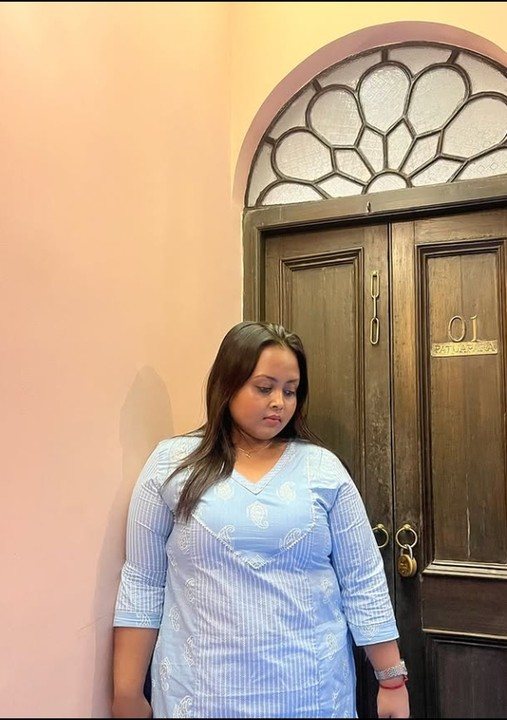
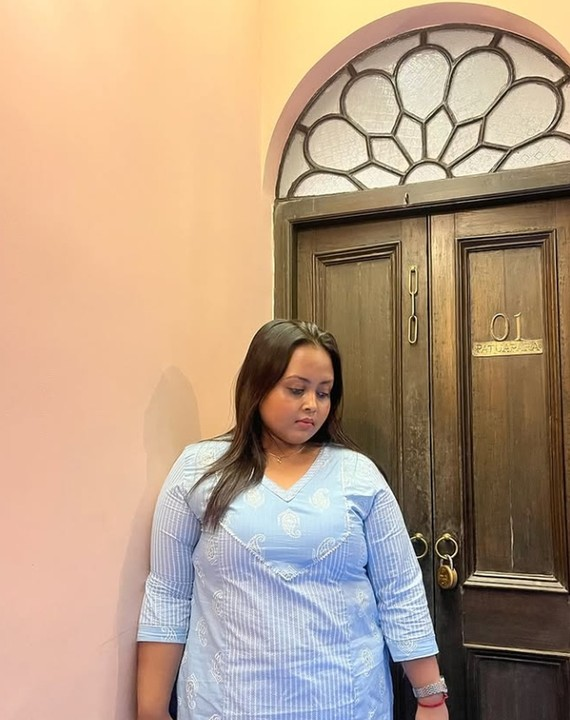
Collections

diff --git a/templates/store/index.html b/templates/store/index.html
@@ -28,17 +28,16 @@
             <div class="swiper-slide">
               <div class="banner-item image-zoom-effect">
                 <div class="image-holder">
-                  <a href="{% url 'store:product_detail' 'hakoba-c6-neck' %}">
-                    <img src="{% static 'assets/images/4.jpg' %}" alt="product" class="img-fluid">
+                  <a href="{% url 'store:product_detail' 'blue-v-neck-kurti' %}">
+                    <img src="{% static 'assets/images/24.jpg' %}" alt="product" class="img-fluid">
                   </a>
                 </div>
-                
               </div>
             </div>
             <div class="swiper-slide">
               <div class="banner-item image-zoom-effect">
                 <div class="image-holder">
-                  <a href="{% url 'store:product_detail' 'hakoba-enakshi-white' %}">
+                  <a href="{% url 'store:product_detail' 'red-mul-cotton' %}">
                     <img src="{% static 'assets/images/1.jpg' %}" alt="product" class="img-fluid">
                   </a>
                 </div>               
@@ -48,7 +47,7 @@
             <div class="swiper-slide">
               <div class="banner-item image-zoom-effect">
                 <div class="image-holder">
-                  <a href="{% url 'store:product_detail' 'hakoba-c6-neck' %}">
+                  <a href="{% url 'store:product_detail' 'mull-cotton-with-decorative-border' %}">
                     <img src="{% static 'assets/images/7.jpg' %}" alt="product" class="img-fluid">
                   </a>
                 </div>
@@ -66,8 +65,8 @@
             <div class="swiper-slide">
               <div class="banner-item image-zoom-effect">
                 <div class="image-holder">
-                  <a href="{% url 'store:product_detail' 'hakoba-enakshi-white' %}">
-                    <img src="{% static 'assets/images/5.jpg' %}" alt="product" class="img-fluid">
+                  <a href="{% url 'store:product_detail' 'mul-cotton-white-saree' %}">
+                    <img src="{% static 'assets/images/h.jpg' %}" alt="product" class="img-fluid">
                   </a>
                 </div>
               </div>
@@ -75,7 +74,7 @@
             <div class="swiper-slide">
               <div class="banner-item image-zoom-effect">
                 <div class="image-holder">
-                  <a href="{% url 'store:product_detail' 'hakoba-c6-neck' %}">
+                  <a href="{% url 'store:product_detail' 'hand-print-sevya' %}">
                     <img src="{% static 'assets/images/9.jpg' %}" alt="product" class="img-fluid">
                   </a>
                 </div>

diff --git a/templates/store/catalogue.html b/templates/store/catalogue.html
@@ -86,6 +86,9 @@
           <h6 class="text-uppercase fw-bold mb-3">Filter By Size</h6>
           <ul class="list-unstyled">
             <li class="mb-1">
+              <a href="?size=FREESIZE{% if selected_color %}&color={{ selected_color }}{% endif %}{% if selected_price %}&price={{ selected_price }}{% endif %}{% if selected_sort %}&sort={{ selected_sort }}{% endif %}" class="text-decoration-none {% if selected_size == 'FREESIZE' %}fw-bold text-dark{% else %}text-secondary{% endif %}">Free Size</a>
+            </li>
+            <li class="mb-1">
               <a href="?size=XS{% if selected_color %}&color={{ selected_color }}{% endif %}{% if selected_price %}&price={{ selected_price }}{% endif %}{% if selected_sort %}&sort={{ selected_sort }}{% endif %}" class="text-decoration-none {% if selected_size == 'XS' %}fw-bold text-dark{% else %}text-secondary{% endif %}">XS</a>
             </li>
             <li class="mb-1">
